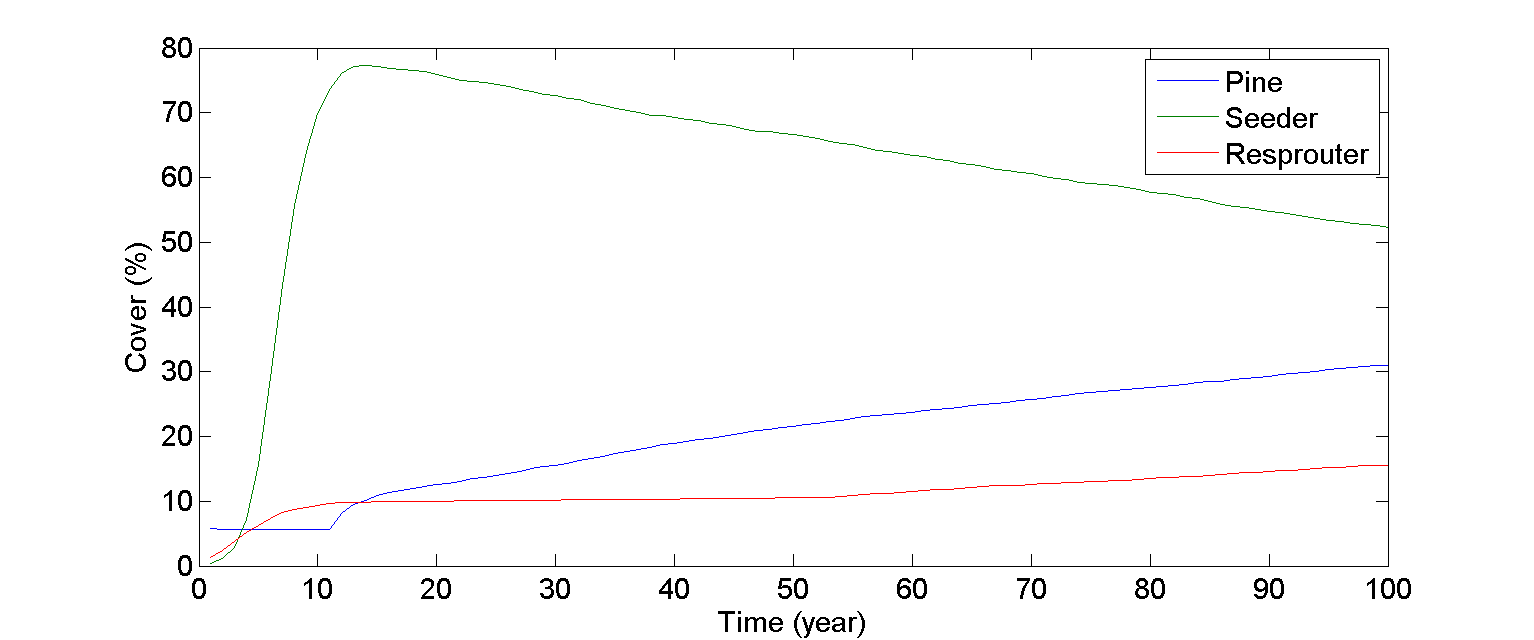
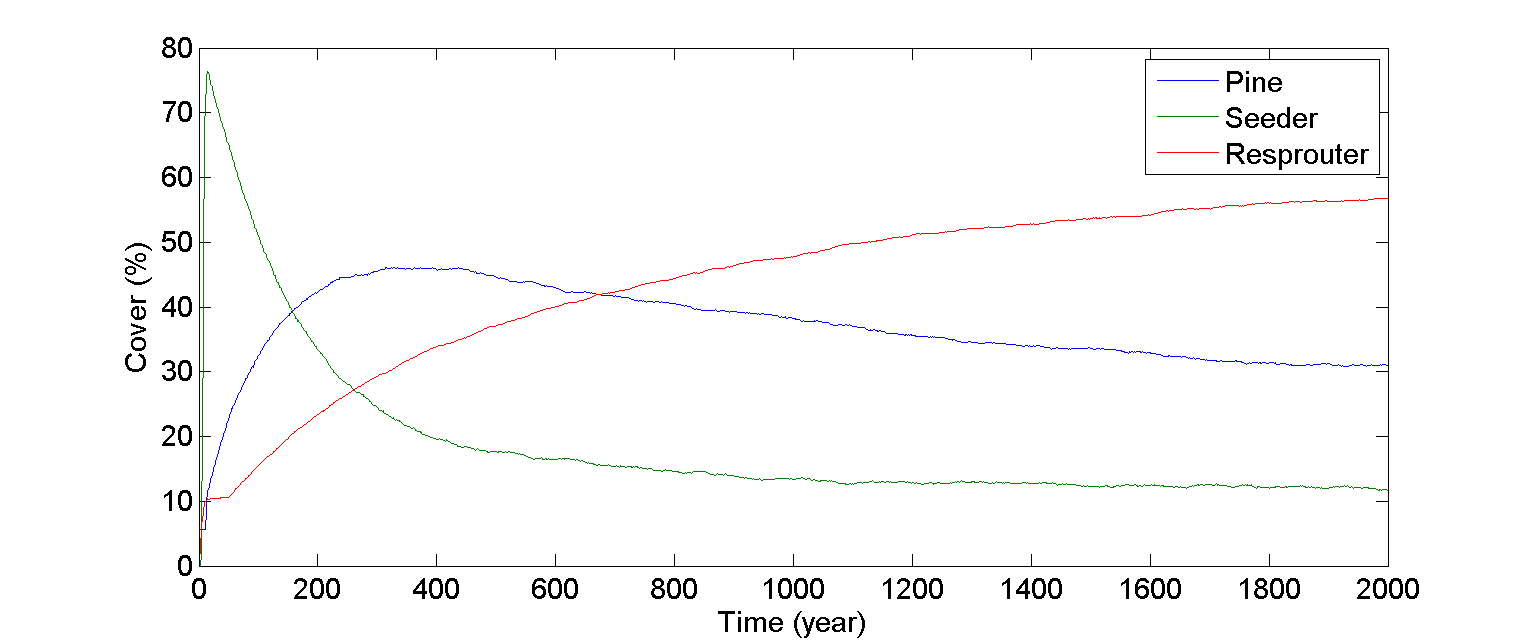
runs

diff --git a/firePT.m b/firePT.m
@@ -22,7 +22,8 @@ ReleaseSeeds=0;           % Pine seeds in the canopy that are released after the
 %%% SEEDER
 AgeMS=2;                  % Age of maturity seeder % field obs Calluna 1 [year]
 % Cistus 3 years ref
-SeedFS=400;               % Seed production per plant/occupied cell approx value ADJUST
+%SeedFS=400;
+SeedFS=1000;               % Seed production per plant/occupied cell approx value ADJUST
 % check in lit
 LSS=30;                   % Life span calluna % in woodland education centre [year]
 
@@ -32,7 +33,8 @@ AgeMO=50;                 % Age of maturity seeder % Kew % [year]% !!! Pausas 19
 SeedFQ=12;                % Seed production oak per occupied cell - 120 acorns per tree refered in Martin?k et al. 2014% [n/m2/year]
 BirdSeedN=5;              % Annual seed input by birds - based on average values Q. suber Pons and Pausas 2007 - this value depends on surrounding populations
 
-LSO= 1000;                % Life span quercus robur % in forestar
+%LSO= 1000;               % Life span quercus robur % in forestar; 
+LSO=500;                  % this was reduced by half to be more realistic (also in the calculations of mortality)
 
 % GENERAL
 minG= [0 0 0.3];          % minimum germination first pine second seeder third oak
@@ -46,7 +48,7 @@ LitThreshS=2;             % Litter threshold for seeders above which ~no germina
 
 lrate=0.42;               % rate of litter deposition [cm/year] Fernandes et al 2004
 eflit=0.90;               % effective litter: if 0.90 then 0.10 of the total litter is decomposed - estimated value not from literature
-ProbG=[0 0 0];            % probability of germination first pine second seeder third oak
+ProbL=[0 0 0];            % probability of germination first pine second seeder third oak
 amp=[0.3 0.3 0];          % amplitude of curve interaction with litter
 
 SBP1=0;                   % !SBP1 and SBP2 are only ways of initializing the seed bank every year
@@ -66,7 +68,7 @@ AR=[0,0,0,0];             % Inicialization of ability to resprout: cummulative f
 
 % Control constants
 StartTime= 0;             % [year]
-EndTime= 100;           % [year]
+EndTime= 2000;           % [year]
 StoreTime = 1;            % [year]
 
 dt=1;                     % [year]
@@ -102,13 +104,13 @@ TC(4:4:m-4,4:4:m-4)= 1; % plants 1 pine every 4 meters - dense prodution stand e
 % Puts seeds in the matrix
 %--------------------------------------------------------------------------
 %%% !!!!!!!!!!!!!!!!!!!!!!!!HUGE number of seeders
-SB=[0 10000 0+randi(BirdSeedN,1)]; %changing initial conditions for seeder and oak, pine is planted but can also be seeded randomly
+SB=[0 1000 0+randi(BirdSeedN,1)]; %changing initial conditions for seeder and oak, pine is planted but can also be seeded randomly
 %SB=[0 1000 0+randi(BirdSeedN,1)]; %previous number of seeds changing initial conditions for seeder and oak, pine is planted but can also be seeded randomly
 
 % %VECTOR OF FIRE OCCURRENCE
 D=0*[StartTime:dt:EndTime]; %#ok<NBRAK>
-tf=12;
-fireret=1000;                  %year
+tf=10001;
+fireret=100;                  %year
 while tf<EndTime
     tf=tf-fireret*log(rand(1,1));
     D(round(tf))=1;
@@ -157,14 +159,14 @@ while Time < EndTime
     % availiable seeds (seed production and seed bank)
     for i = 1 : m
         for j=1:m
-            test=rand*length(ProbG); %RANDOM NUMBER BETWEEN 0 AND THE NUMBER OF SPECIES (LENGTH(PROBg=3))
+            test=rand*length(ProbL); %RANDOM NUMBER BETWEEN 0 AND THE NUMBER OF SPECIES (LENGTH(PROBg=3))
             if TC(i,j)==0 % colonization/germination
                 
                 %                 %                 COLONIZATION vs LITTER
-                ProbG(1)=(maxG(1)+minG(1))/2+(maxG(1)-minG(1))/2*tanh((LitThreshP-Lit(i,j))/amp(1)) ...
+                ProbL(1)=(maxG(1)+minG(1))/2+(maxG(1)-minG(1))/2*tanh((LitThreshP-Lit(i,j))/amp(1)) ...
                     -(maxG(1)-ProbPZeroL)*exp(-2/LitThreshP*exp(1)*Lit(i,j)); % PINE
-                ProbG(2)=(maxG(2)+minG(2))/2+(maxG(2)-minG(2))/2*tanh((LitThreshS-Lit(i,j))/amp(2)); % SEEDER ampS=0.3 max=.9 min=0.
-                ProbG(3)=maxG(3)-(maxG(3)-minG(3))*exp(-Lit(i,j)); % QUERCUS
+                ProbL(2)=(maxG(2)+minG(2))/2+(maxG(2)-minG(2))/2*tanh((LitThreshS-Lit(i,j))/amp(2)); % SEEDER ampS=0.3 max=.9 min=0.
+                ProbL(3)=maxG(3)-(maxG(3)-minG(3))*exp(-Lit(i,j)); % QUERCUS
                 
                 %%% TERM FOR PROBABILITY OF COLONIZATION vs. NUMBER OF SEEDS AND ESTABLISHMENT
                 
@@ -191,8 +193,8 @@ while Time < EndTime
                 % COMBINING PROBABILITIES OF ESTABLISHMENT DUE TO LITTER AND SEED NUMBERS
                 
                 %%%%%%%%%%%%%%%%%%%%%%%%check this with Mara%%%%%%%%%%%%%%%%%%%%%%%%%%%%%
-                % ProbG=[1 1 1];% term for test IN ABSENCE of litter
-                ProbG=ProbG.*ProbS; %term for test with litter
+                % ProbL=[1 1 1];% term for test IN ABSENCE of litter
+                ProbG=ProbL.*ProbS; %term for test with litter
                 
                 % this step has the improved version (Mara's) of Alains'
                 % MSc thesis trick (prob only need to be <than 3 and we don't multiply by dt anymore)
